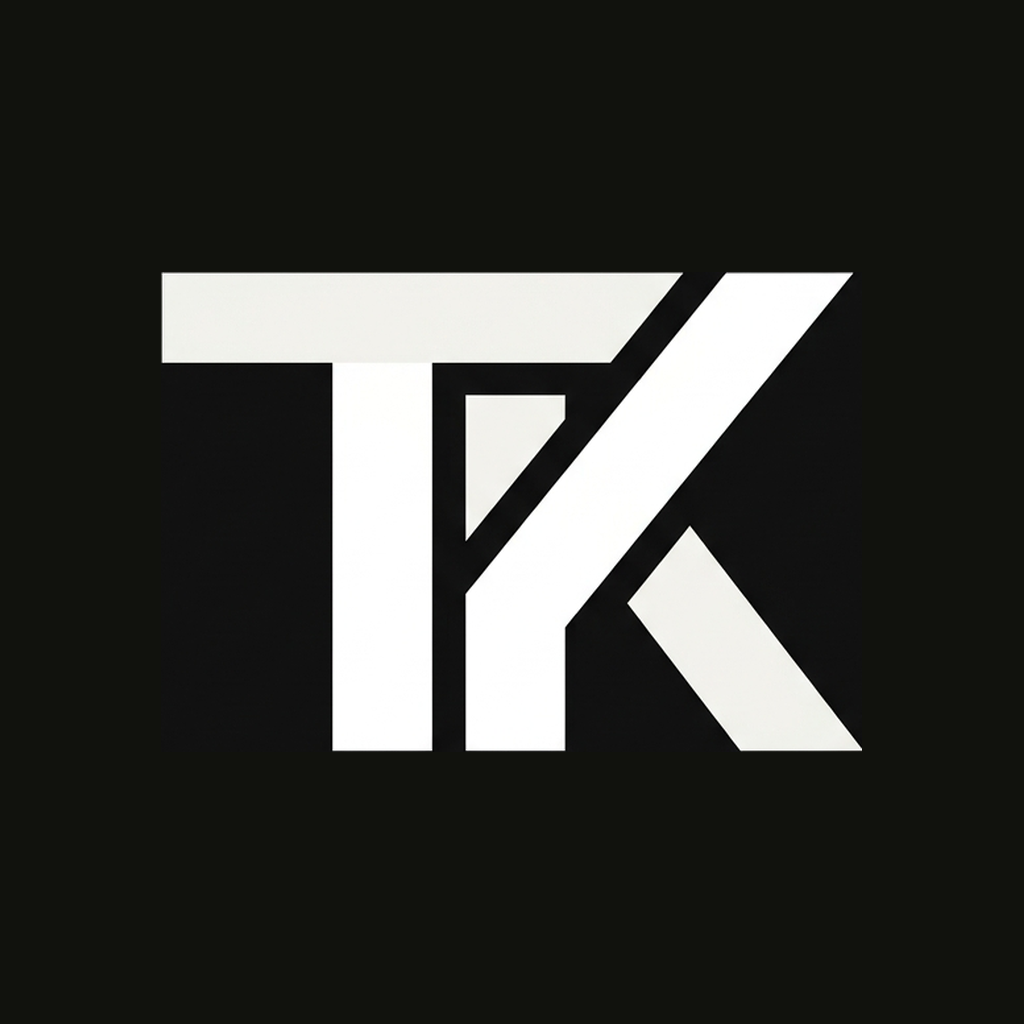
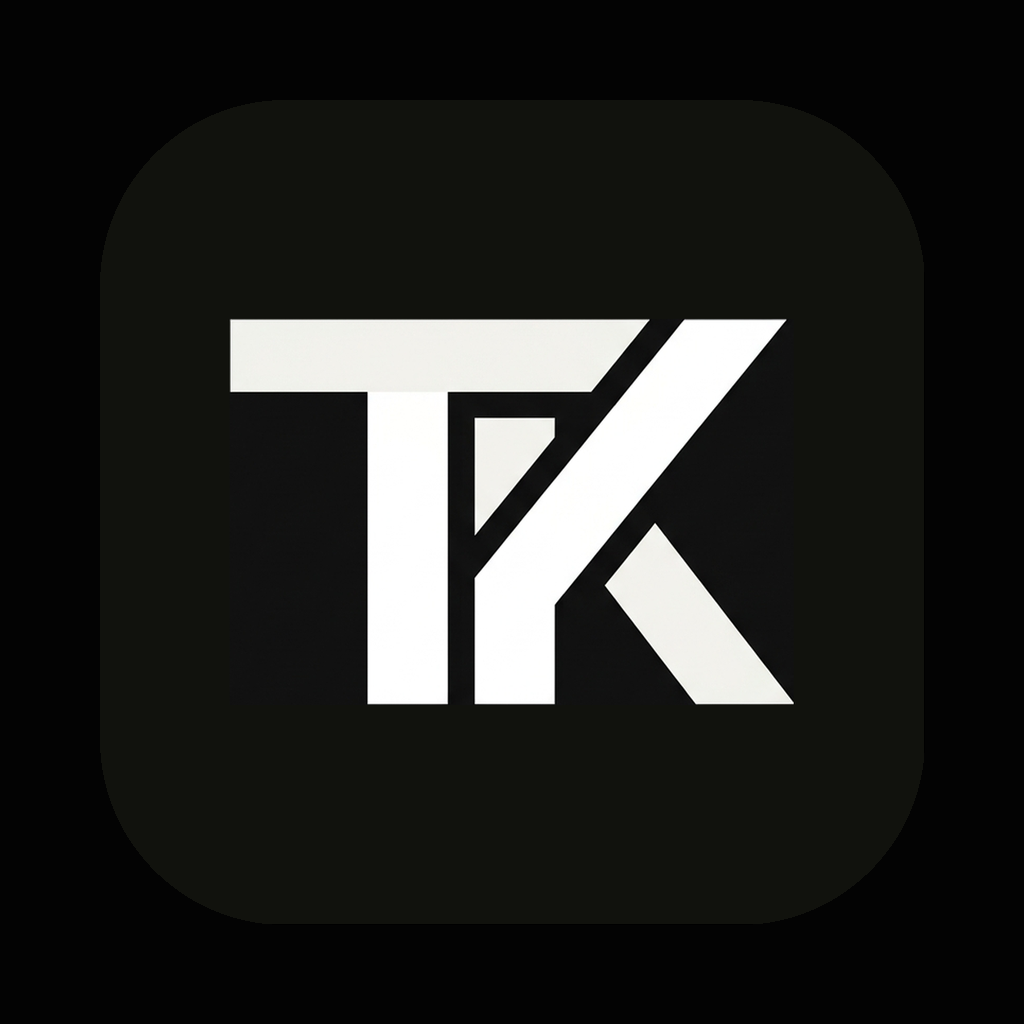
fix(v5.9.8): fix splash screen background color mismatch and move version tag to bottom-right footer

Changed region(s): [[0.1562, 0.25, 0.8438, 0.75], [0.6562, 0.6562, 0.6875, 0.6875]]

diff --git a/mobile.html b/mobile.html
@@ -14,29 +14,29 @@
     <meta name="apple-mobile-web-app-status-bar-style" content="black-translucent">
     <meta name="apple-mobile-web-app-title" content="Ticker">
     <meta name="theme-color" content="#030303">
-    <link rel="apple-touch-icon" sizes="180x180" href="./apple-touch-icon.png?v=5.7.4">
-    <link rel="apple-touch-icon" href="./apple-touch-icon.png?v=5.7.4">
-    <link rel="icon" type="image/png" sizes="32x32" href="./apple-touch-icon.png?v=5.7.4">
-    <link rel="icon" type="image/png" sizes="16x16" href="./apple-touch-icon.png?v=5.7.4">
-    <link rel="shortcut icon" href="./apple-touch-icon.png?v=5.7.4">
-    <link rel="manifest" href="./manifest.json?v=5.7.4">
+    <link rel="apple-touch-icon" sizes="180x180" href="./apple-touch-icon.png?v=5.9.8">
+    <link rel="apple-touch-icon" href="./apple-touch-icon.png?v=5.9.8">
+    <link rel="icon" type="image/png" sizes="32x32" href="./apple-touch-icon.png?v=5.9.8">
+    <link rel="icon" type="image/png" sizes="16x16" href="./apple-touch-icon.png?v=5.9.8">
+    <link rel="shortcut icon" href="./apple-touch-icon.png?v=5.9.8">
+    <link rel="manifest" href="./manifest.json?v=5.9.8">
 
     <!-- iOS Startup Splash Screens (Dark Mode Studio Noir - Instant Non-White Screen) -->
     <!-- iPhone 14 Pro Max / 15 Plus / 15 Pro Max (430 x 932 pt, 3x) -->
-    <link rel="apple-touch-startup-image" media="(device-width: 430px) and (device-height: 932px) and (-webkit-device-pixel-ratio: 3) and (orientation: portrait)" href="./splash-1290x2796.png?v=5.7.5">
-    <link rel="apple-touch-startup-image" media="(device-width: 430px) and (device-height: 932px) and (-webkit-device-pixel-ratio: 3)" href="./splash-1290x2796.png?v=5.7.5">
+    <link rel="apple-touch-startup-image" media="(device-width: 430px) and (device-height: 932px) and (-webkit-device-pixel-ratio: 3) and (orientation: portrait)" href="./splash-1290x2796.png?v=5.9.8">
+    <link rel="apple-touch-startup-image" media="(device-width: 430px) and (device-height: 932px) and (-webkit-device-pixel-ratio: 3)" href="./splash-1290x2796.png?v=5.9.8">
     <!-- iPhone 15 Pro / 14 Pro (393 x 852 pt, 3x) -->
-    <link rel="apple-touch-startup-image" media="(device-width: 393px) and (device-height: 852px) and (-webkit-device-pixel-ratio: 3) and (orientation: portrait)" href="./splash-1179x2556.png?v=5.7.5">
-    <link rel="apple-touch-startup-image" media="(device-width: 393px) and (device-height: 852px) and (-webkit-device-pixel-ratio: 3)" href="./splash-1179x2556.png?v=5.7.5">
+    <link rel="apple-touch-startup-image" media="(device-width: 393px) and (device-height: 852px) and (-webkit-device-pixel-ratio: 3) and (orientation: portrait)" href="./splash-1179x2556.png?v=5.9.8">
+    <link rel="apple-touch-startup-image" media="(device-width: 393px) and (device-height: 852px) and (-webkit-device-pixel-ratio: 3)" href="./splash-1179x2556.png?v=5.9.8">
     <!-- iPhone 14 / 13 / 13 Pro / 12 / 12 Pro (390 x 844 pt, 3x) -->
-    <link rel="apple-touch-startup-image" media="(device-width: 390px) and (device-height: 844px) and (-webkit-device-pixel-ratio: 3) and (orientation: portrait)" href="./splash-1170x2532.png?v=5.7.5">
-    <link rel="apple-touch-startup-image" media="(device-width: 390px) and (device-height: 844px) and (-webkit-device-pixel-ratio: 3)" href="./splash-1170x2532.png?v=5.7.5">
+    <link rel="apple-touch-startup-image" media="(device-width: 390px) and (device-height: 844px) and (-webkit-device-pixel-ratio: 3) and (orientation: portrait)" href="./splash-1170x2532.png?v=5.9.8">
+    <link rel="apple-touch-startup-image" media="(device-width: 390px) and (device-height: 844px) and (-webkit-device-pixel-ratio: 3)" href="./splash-1170x2532.png?v=5.9.8">
     <!-- iPhone 11 Pro Max / XS Max (414 x 896 pt, 3x) -->
-    <link rel="apple-touch-startup-image" media="(device-width: 414px) and (device-height: 896px) and (-webkit-device-pixel-ratio: 3) and (orientation: portrait)" href="./splash-1242x2688.png?v=5.7.5">
+    <link rel="apple-touch-startup-image" media="(device-width: 414px) and (device-height: 896px) and (-webkit-device-pixel-ratio: 3) and (orientation: portrait)" href="./splash-1242x2688.png?v=5.9.8">
     <!-- iPhone 11 / XR (414 x 896 pt, 2x) -->
-    <link rel="apple-touch-startup-image" media="(device-width: 414px) and (device-height: 896px) and (-webkit-device-pixel-ratio: 2) and (orientation: portrait)" href="./splash-828x1792.png?v=5.7.5">
+    <link rel="apple-touch-startup-image" media="(device-width: 414px) and (device-height: 896px) and (-webkit-device-pixel-ratio: 2) and (orientation: portrait)" href="./splash-828x1792.png?v=5.9.8">
     <!-- Fallback Splash -->
-    <link rel="apple-touch-startup-image" href="./apple-touch-startup-image.png?v=5.7.5">
+    <link rel="apple-touch-startup-image" href="./apple-touch-startup-image.png?v=5.9.8">
 
     <!-- Inline Critical CSS for Instant 0ms Zero-Latency Styling -->
     <style>
@@ -2814,7 +2814,7 @@ html, body {
         <!-- Masthead -->
         <header class="mobile-header">
             <div class="brand-row">
-                <div class="brand-title">TICKER <span style="font-size: 0.55rem; color: #555555; font-weight: 400; letter-spacing: 0.05em; margin-left: 4px;">v5.9.8</span></div>
+                <div class="brand-title">TICKER</div>
                 <div class="header-status">
                     <div id="sync-indicator" class="status-pill status-offline">
                         <span class="status-dot"></span>
@@ -2981,7 +2981,7 @@ html, body {
             <div class="footer-line"></div>
             <div class="footer-info">
                 <span>STUDIO NOIR</span>
-                <span class="mono">TICKER POCKET v5.7.9</span>
+                <span class="mono">TICKER POCKET v5.9.8</span>
             </div>
         </footer>
     </div>

diff --git a/PROJECT_MEMORY.md b/PROJECT_MEMORY.md
@@ -155,15 +155,19 @@ The app features intelligent automatic market detection via `getMarketInfo(symbo
   - Embedded Studio Noir AI chat dialog pre-loaded with current stock's financial fundamentals and business background.
   - Quick-prompt chips: 核心护城河分析、财报风险评估、估值深度评估.
 
-### v5.9.8: Restore Classic Badge Typography & Dynamic Single/Two-Line Wrap
+### v5.9.8: Restore Classic Badge Typography, Seamless Splash Background & Footer Version Placement
 - **Classic Typography Restoration**:
   - 恢复 EARNINGS CALENDAR 徽章的原版经典暗黑极简字体与配色（`font-size: 0.62rem; font-family: 'JetBrains Mono', monospace; color: var(--fg-dim); background: rgba(255,255,255,0.06); padding: 2px 6px;`），消除大号白色粗体与突兀的双色对比。
 - **Dynamic Responsive Layout**:
   - 当屏幕空间足够时，徽章内容保持单行完整展示（如 `FY2026 Q3 季报 (截至 2026-06-27)`）。
   - 当在小屏设备（如 iPhone 15）宽度不足时，括号内容 `(截至 2026-06-27)` 作为一个整体自然换行至第二行，且永不拆开词语。
   - 下方 `Est. Release Date` 同样支持单行自适应以及小屏括号平滑换行。
+- **Seamless Splash Background & Icon Alpha Composition**:
+  - 彻底解决 App 启动欢迎屏（Splash Screen）的色差与方框轮廓问题：使用纯透明母版图标通过 Alpha 渐变合成至精准 `#030303` 底色，消除原图标暗灰方框残留。
+- **Version Indicator Relocation**:
+  - 顶部 Logo 保持纯粹 `TICKER`，版本号按原设计放置于主页最底部右下角 `TICKER POCKET v5.9.8`。
 - **Script & Cache Bumping**:
-  - `mobile.html` 引用版本升级至 `v5.9.8`。
+  - `mobile.html` 引用版本与启动图链接全面升级至 `v5.9.8`。
 
 ---
 
